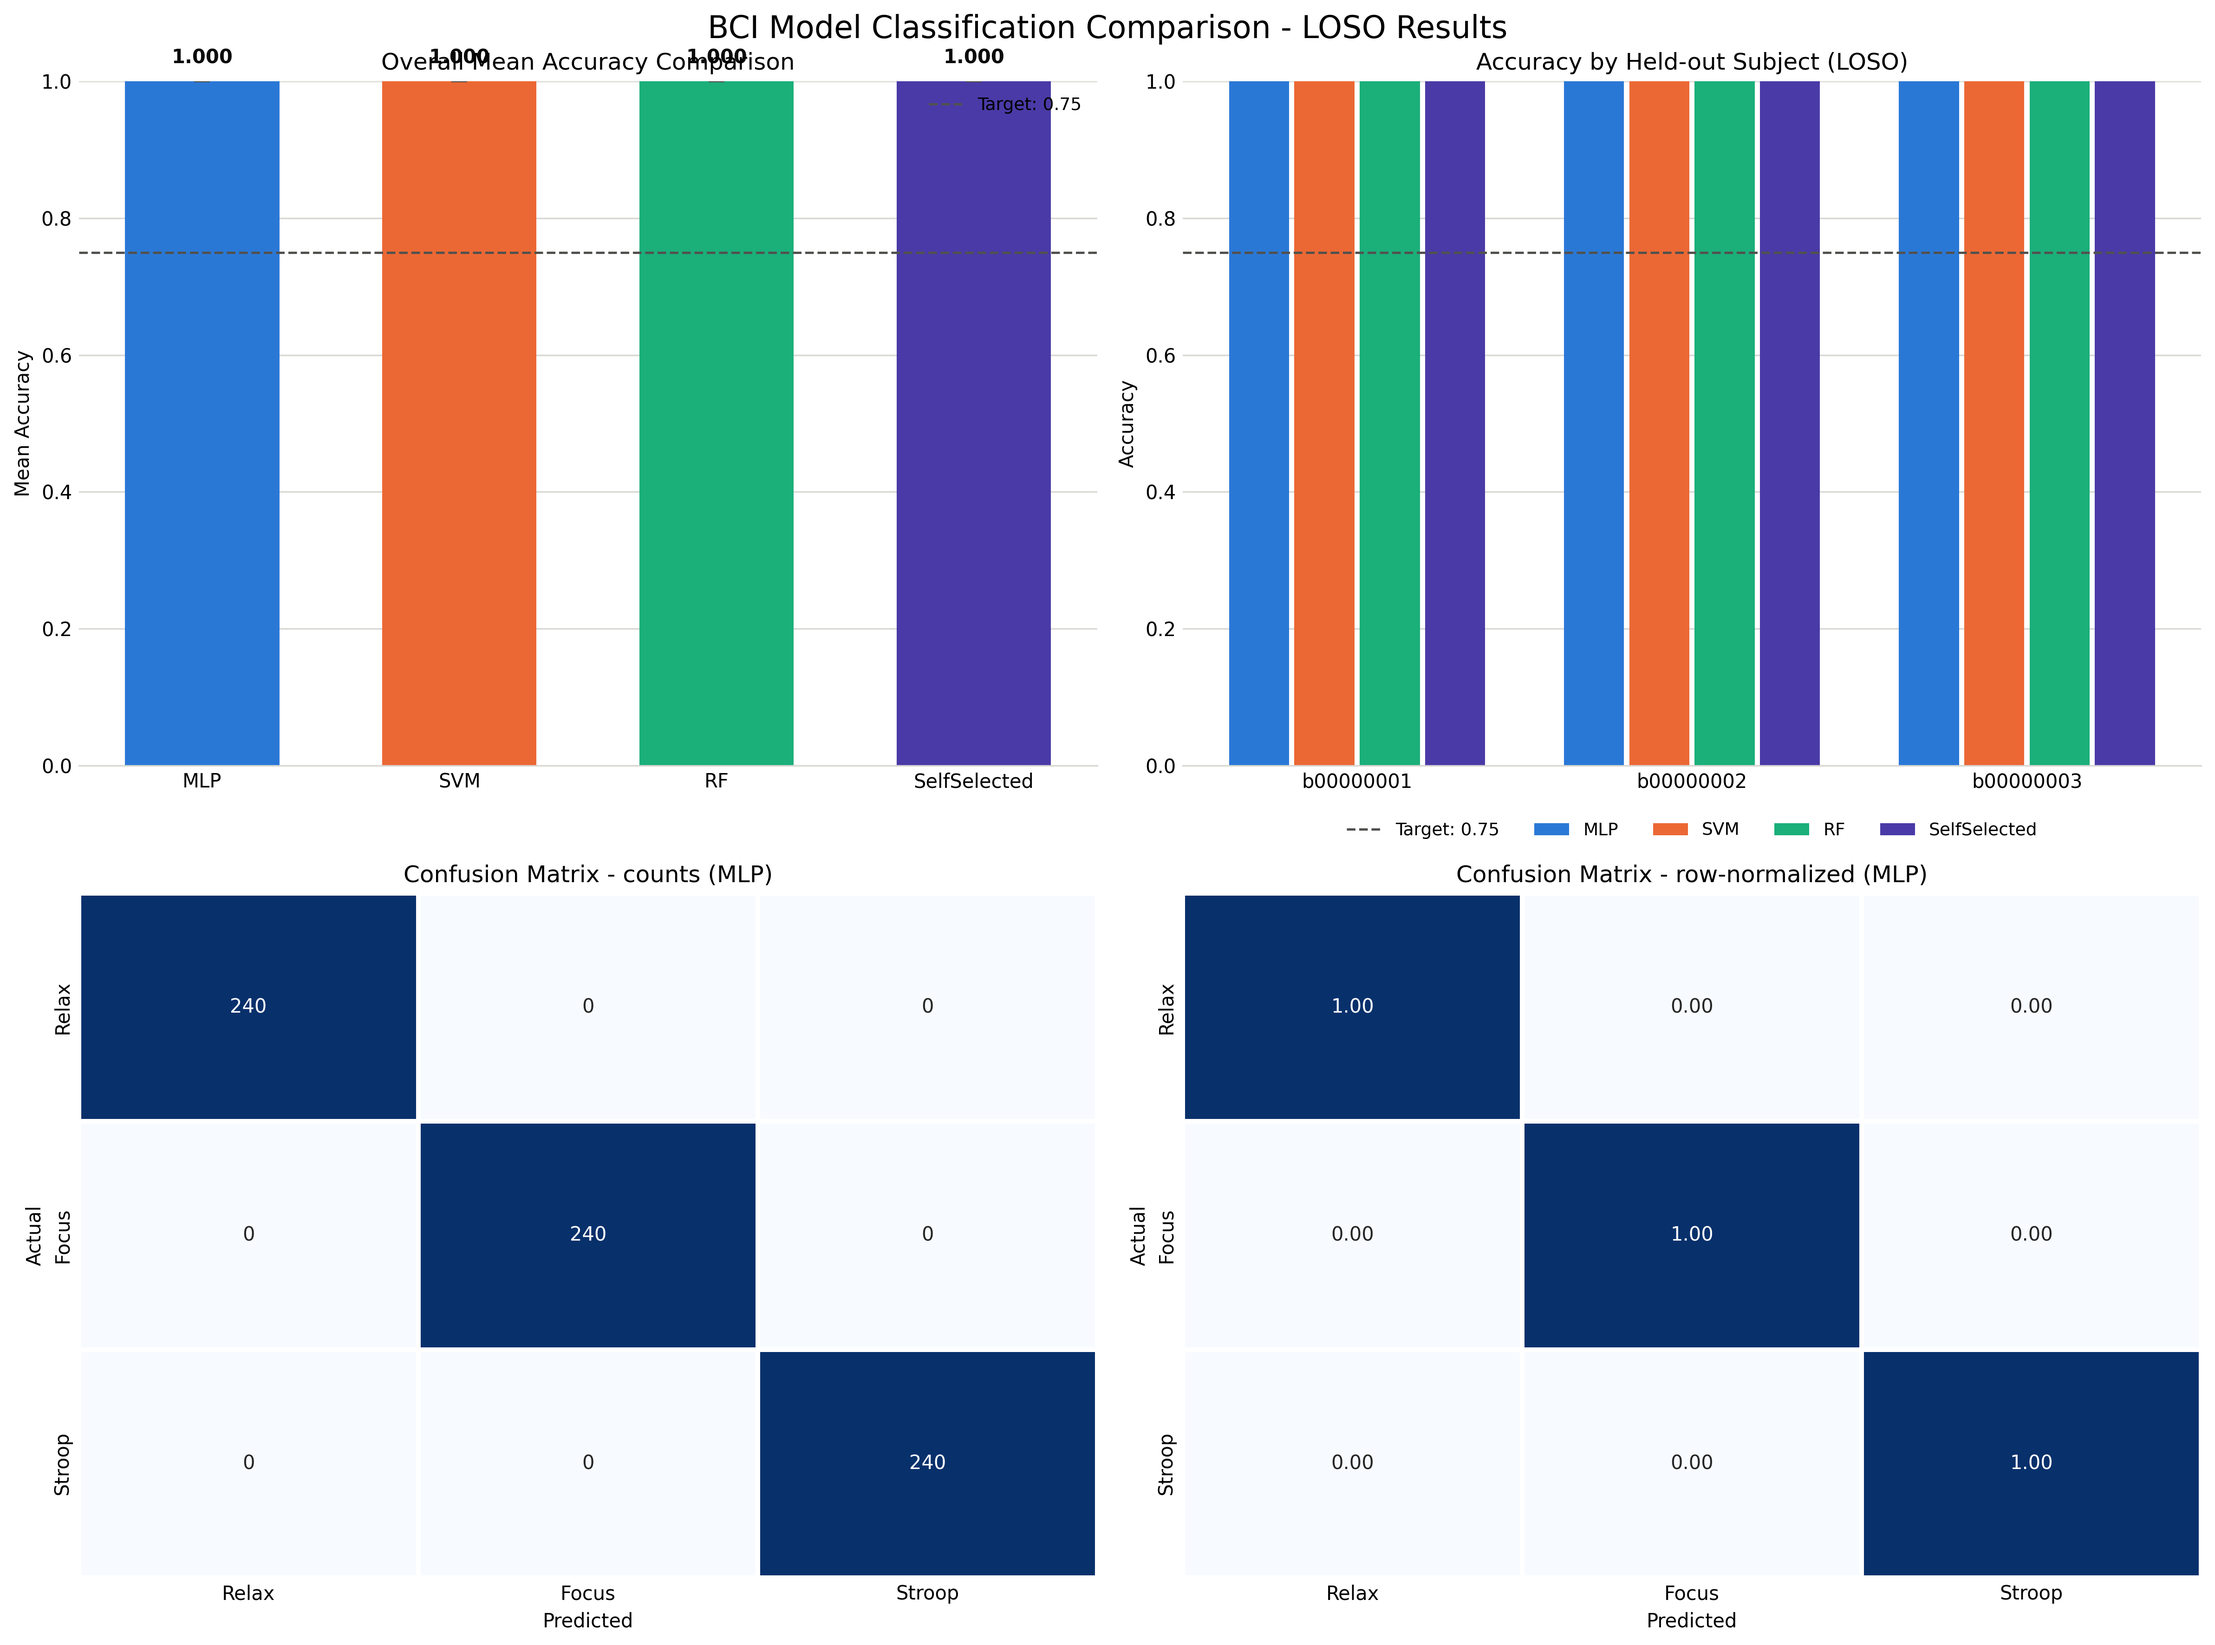
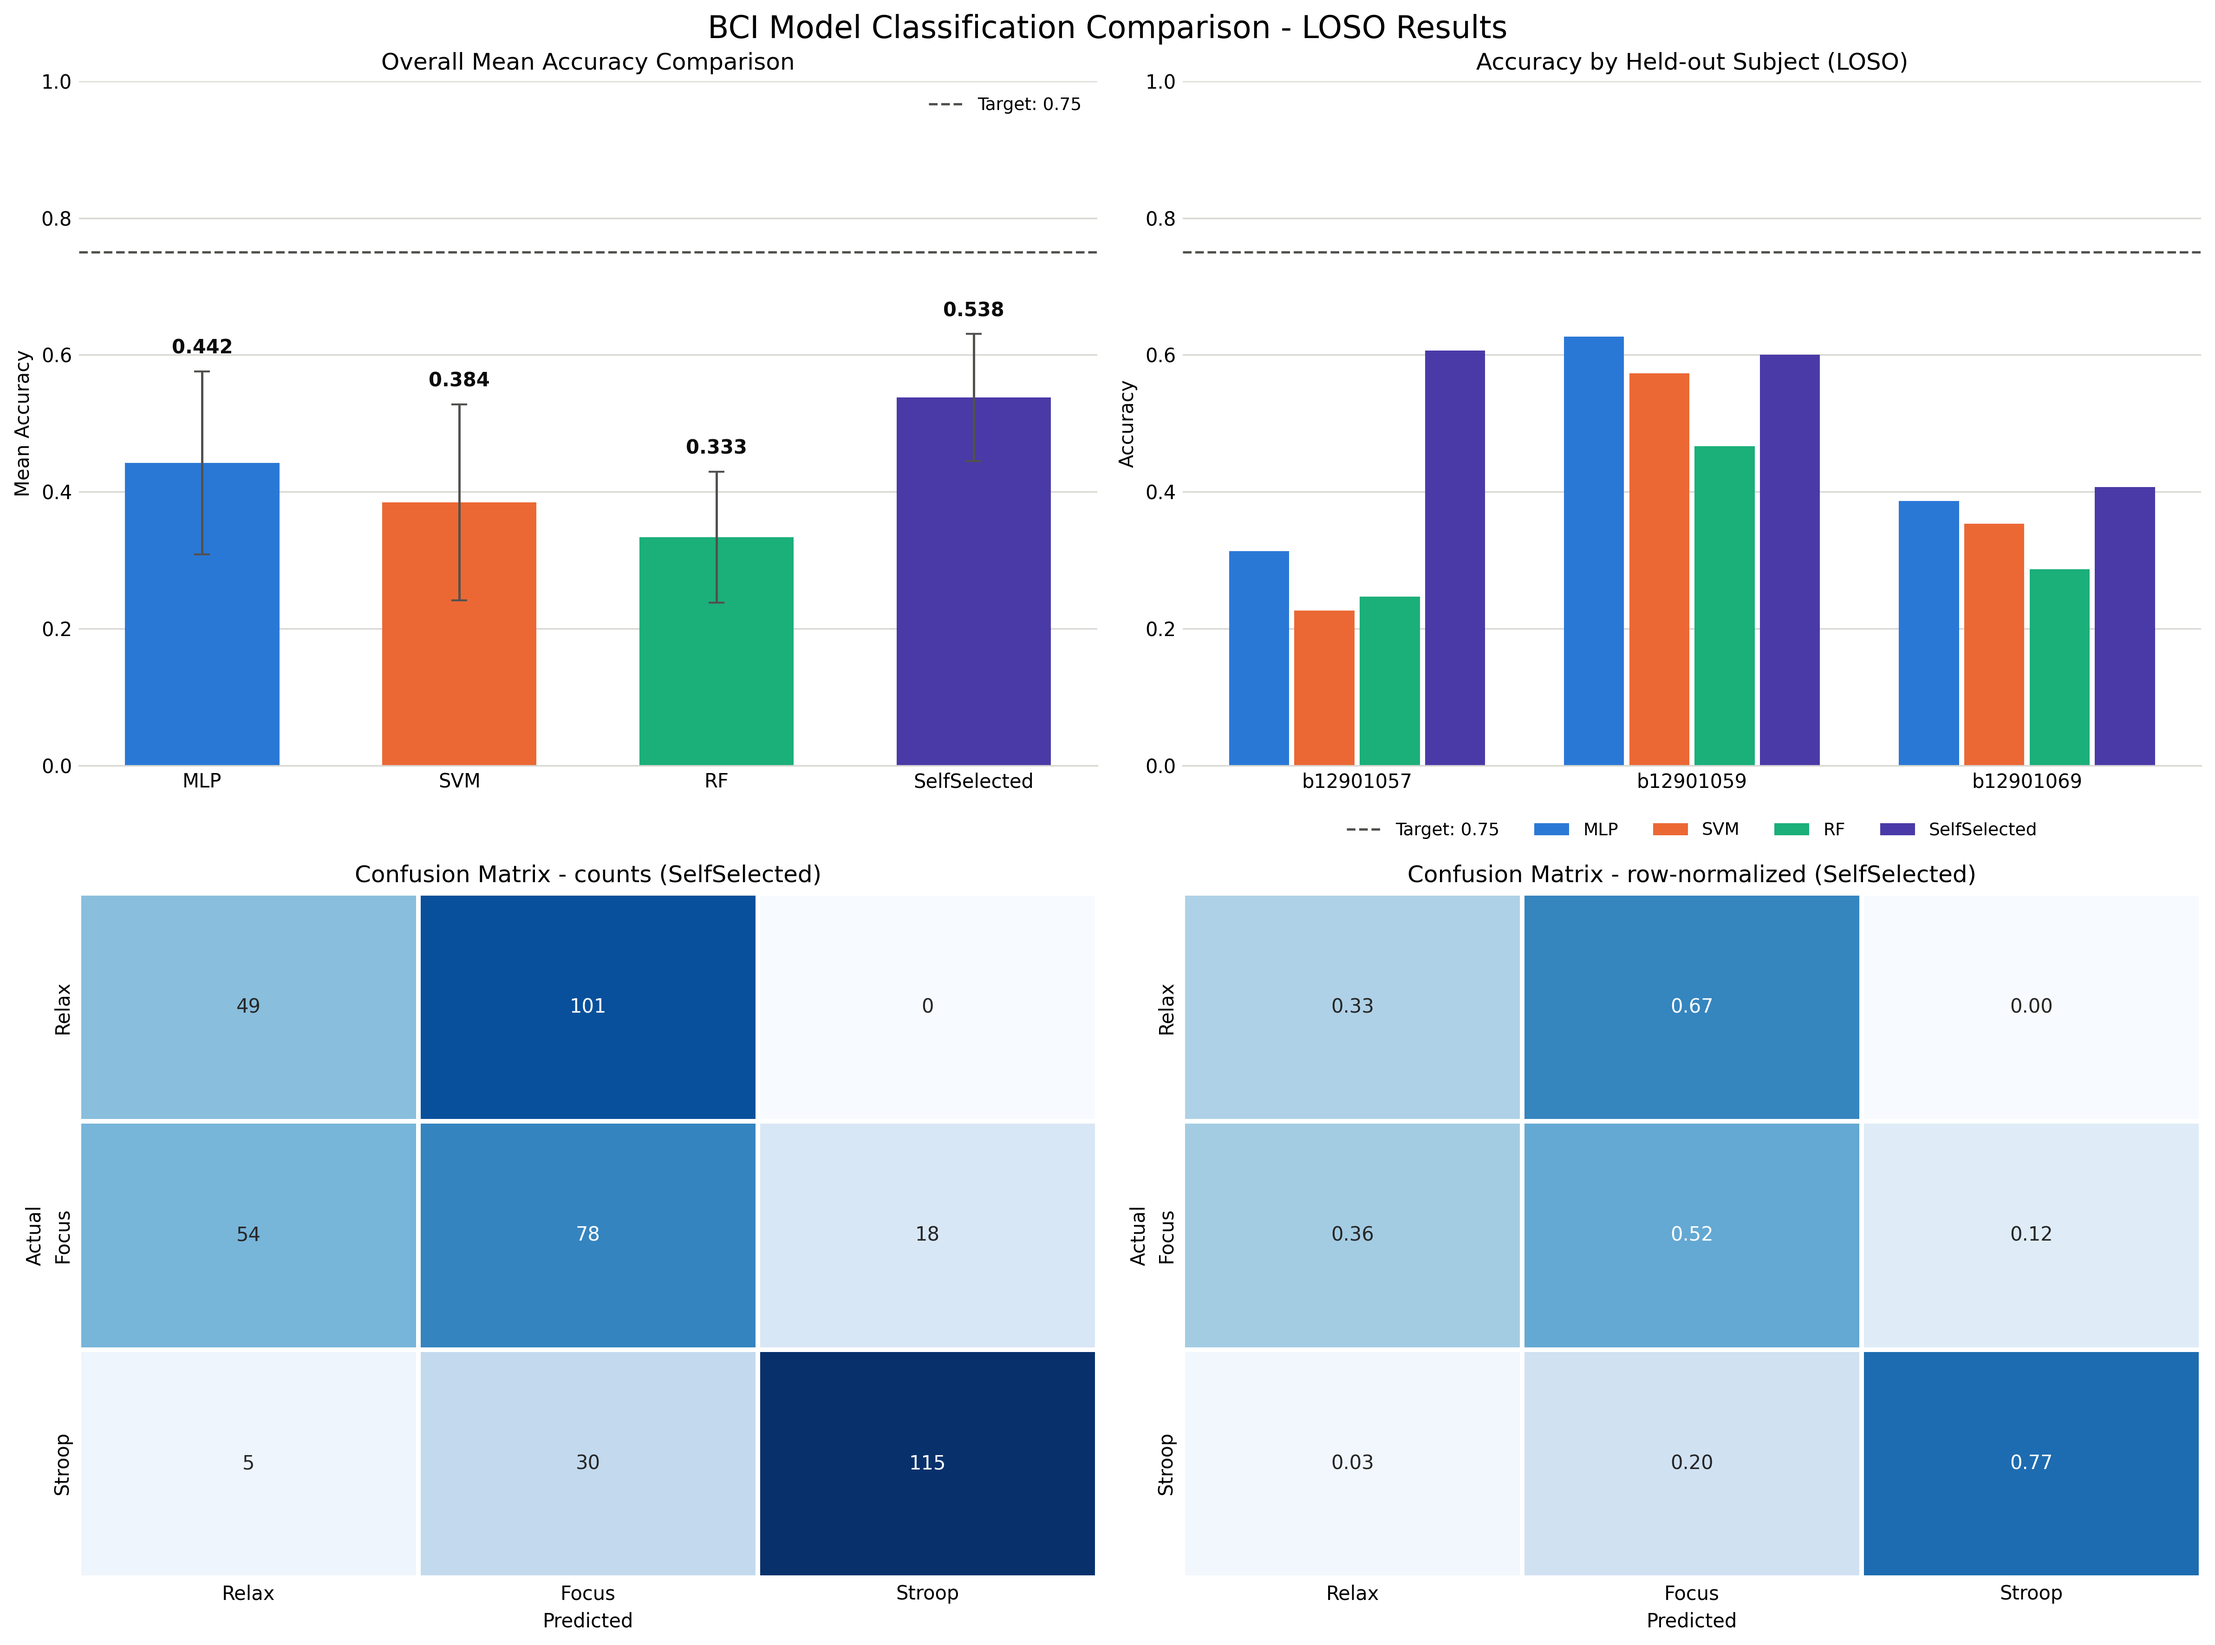
1021

diff --git a/main.py b/main.py
@@ -48,28 +48,29 @@ class Config:
 
     # MLP parameters
     HIDDEN_LAYERS = (128, 64, 32)  # hhhy
-    MAX_ITER = 150                 # hhhy
-    LEARNING_RATE = 0.002          # hhhy
+    MAX_ITER = 200                 # hhhy
+    LEARNING_RATE = 0.0025         # hhhy
     ALPHA = 0.005                  # hhhy
 
     # SVM parameters
     SVM_KERNEL = 'rbf'   # hhhy
-    SVM_C = 1.0          # hhhy
+    SVM_C = 1.2          # hhhy
     SVM_GAMMA = 'scale'  # hhhy
 
     # Random Forest parameters
-    RF_ESTIMATORS = 100  # hhhy
+    RF_ESTIMATORS = 200  # hhhy
     RF_MAX_DEPTH = None  # hhhy
 
     # Signal processing parameters
     SAMPLING_RATE = 512    # BrainLink fixed sampling rate
-    SEGMENT_LENGTH = 5     # Segment length in seconds      # hhhy
-    OVERLAP_RATIO = 0.6    # Overlap ratio for segments     # hhhy
+    SEGMENT_LENGTH = 7     # Segment length in seconds      # hhhy
+    OVERLAP_RATIO = 0.7    # Overlap ratio for segments     # hhhy
+    TRIM_SECONDS = 1.0     # seconds cut from BOTH ends of every recording (task-switch transients)  # hhhy
 
     # Preprocessing parameters (student)
     BANDPASS = (1.0, 45.0)     # Hz, band-pass range   # hhhy
     NOTCH_FREQ = 60.0          # Hz, mains frequency in Taiwan
-    ARTIFACT_THRESHOLD = None  # e.g. 300: drop a segment if |filtered amplitude| exceeds it; None = keep all  # hhhy
+    ARTIFACT_THRESHOLD = None   # drop a segment if max|filtered amplitude| exceeds this (e.g. blink/EMG burst); None = keep all  # hhhy
 
     # Ablation switches (student): used by ablation.py to build Table 3 of the report.
     # Keep all three True for the final pipeline.
@@ -86,7 +87,7 @@ class Config:
 
     # Feature selection parameters
     FEATURE_SELECTION = True  # hhhy
-    N_FEATURES_SELECT = 20    # hhhy
+    N_FEATURES_SELECT = 15    # hhhy
 
     # Reporting settings
     TARGET_ACCURACY = 0.75   # required level
@@ -152,6 +153,13 @@ def create_segments(data, segment_length_samples, overlap_samples):
         # ==========================================
         # === STUDENT PREPROCESSING HERE (Part 1)===
         # ==========================================
+        # Skip segments that touch the first/last TRIM_SECONDS of the recording
+        # (transients left over from the previous task / the task switch).
+        trim = int(Config.TRIM_SECONDS * Config.SAMPLING_RATE)
+        if start < trim or start + segment_length_samples > len(data) - trim:
+            start += step
+            continue
+
         if Config.USE_FILTERING:
             segment = preprocess_segment(segment)
         if (Config.ARTIFACT_THRESHOLD is not None
